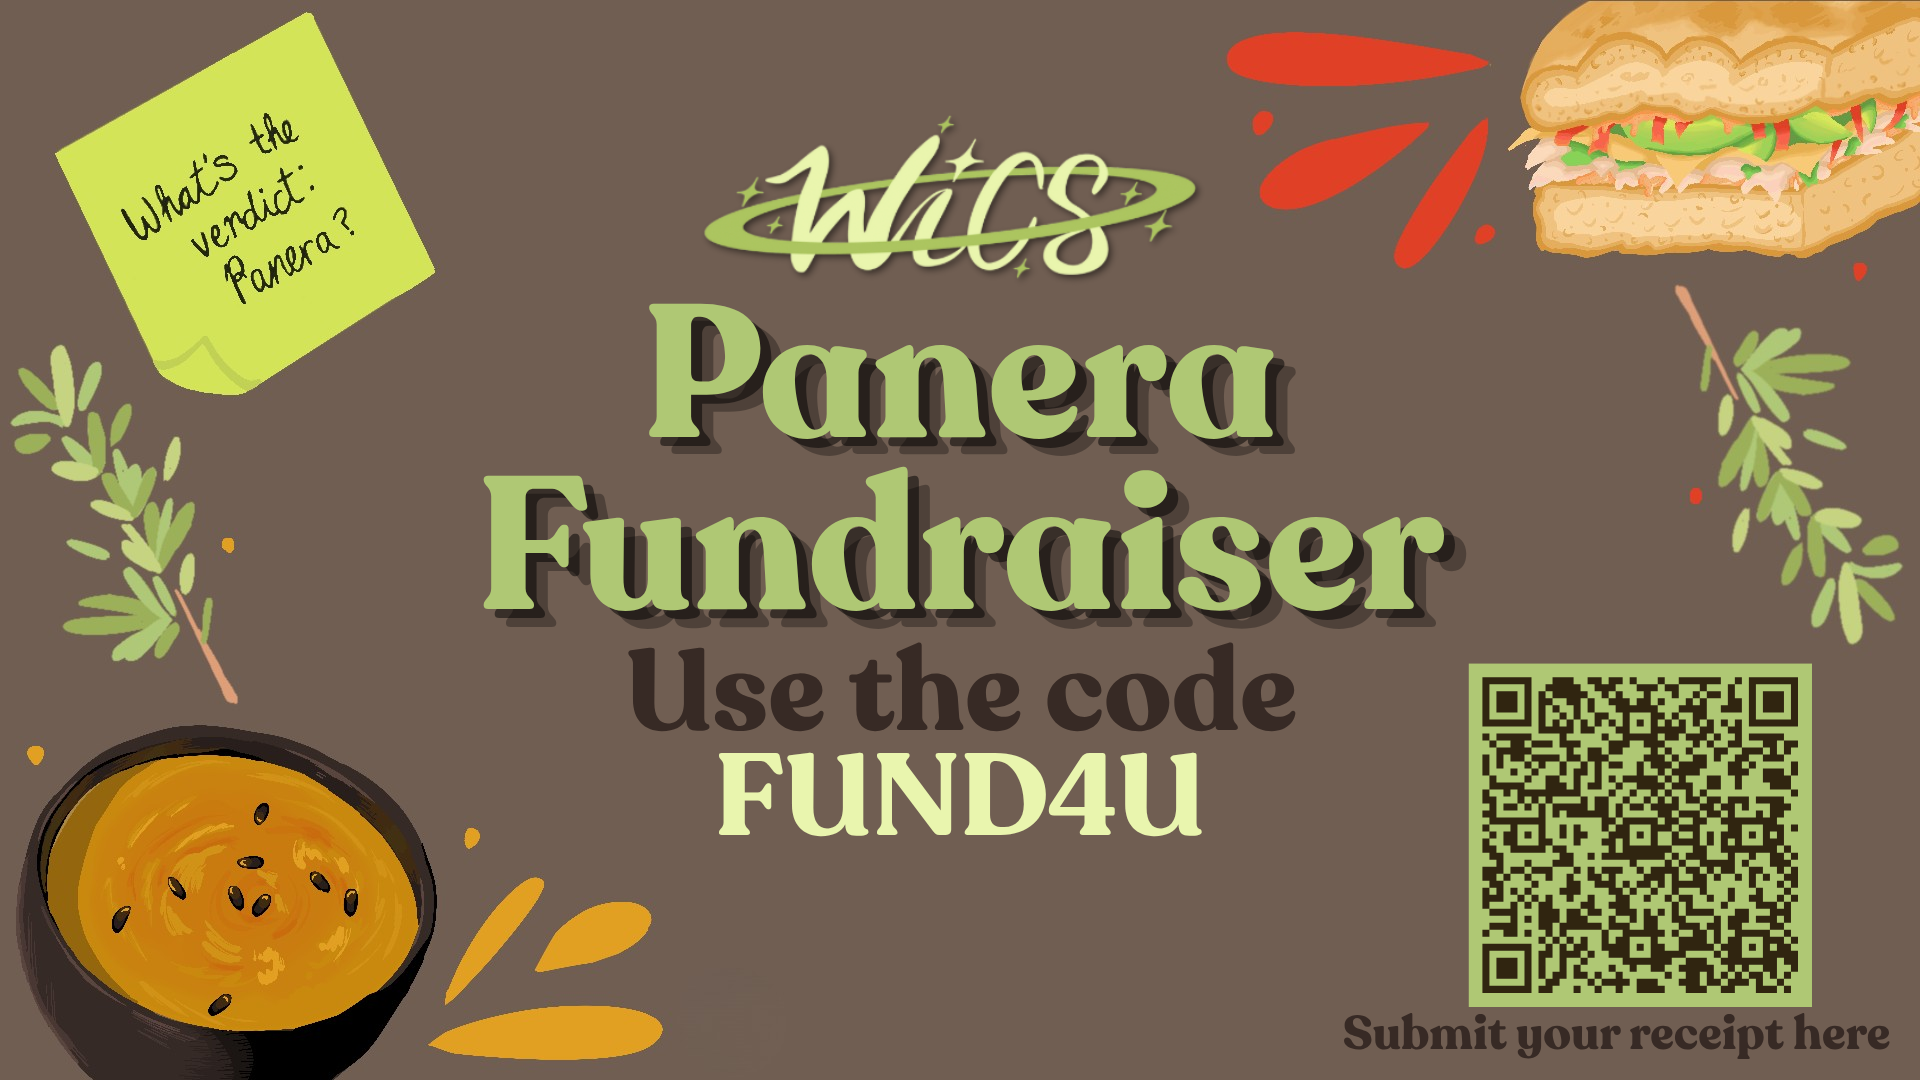
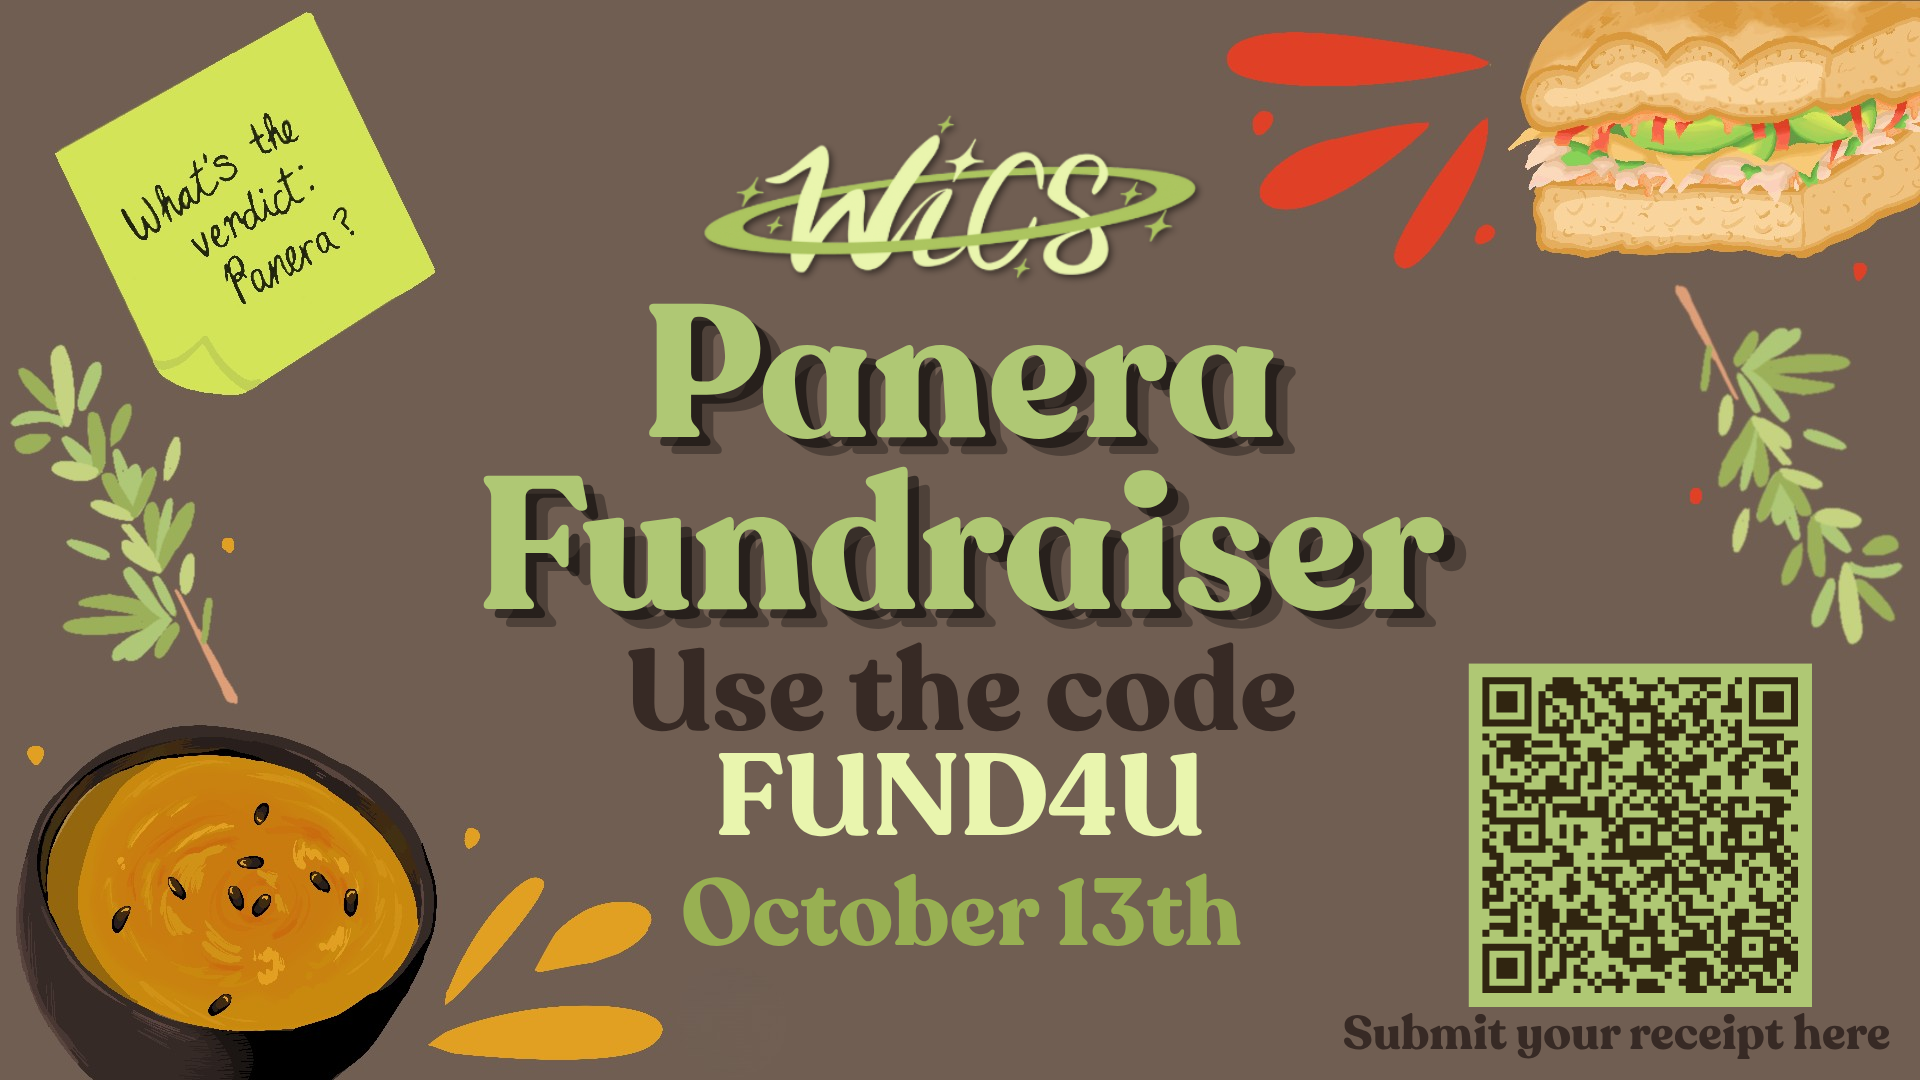
updated all upcoming WiCS and WiCys events

Changed region(s): [[0.3438, 0.7944, 0.6562, 0.8861]]

diff --git a/js/upcoming-events.js b/js/upcoming-events.js
@@ -36,8 +36,23 @@ const EVENTS = [
     start: "2026-10-07T18:00:00",
     end: "2026=10-07T19:00:00",
     location: "PFT 1202",
-    img: "pictures/posters/26-27/Members-Only_Taco_Night_2026_-_3.png",
+    img: "/pictures/posters/26-27/Members-Only_Taco_Night_2026_-_3.png",
     desc: "WiCS members, prepare for a fun night of games and tasty food with fellow members!",
+  },
+  {
+    title: "WiCys Introduction to Cybersecurity",
+    start: "2026-09-23T18:00:00",
+    end: "2026-09-23T19:00:00",
+    location: "PFT 1202",
+    img: "/pictures/posters/26-27/1.png",
+    desc: "Please join WiCys for an introduction into the world of Cyber and where YOU can fit in!",
+  },
+  {
+    title: "WiCS Panera Fundraiser",
+    start: "2026-10-13",
+    end: "2026-10-14",
+    img: "/pictures/posters/26-27/Panera_Fundraiser_2026_-_3.png",
+    desc: "Please help suppoort WiCS by participating in our Panera fundraiser!!",
   }
 ];
 
